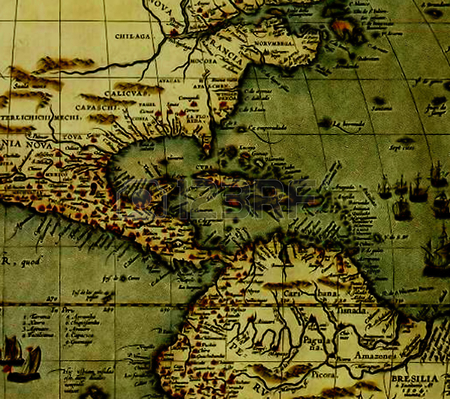
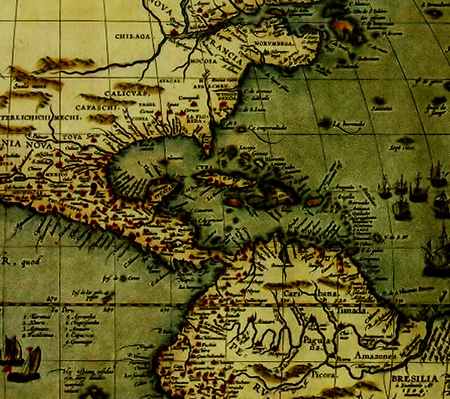
Updated README. Updated image with licensed version. Updated height and width properties accordintly.

Changed region(s): [[0.2489, 0.4511, 0.7467, 0.5714], [0.4978, 0.5414, 0.5289, 0.5714]]

diff --git a/assets/js/app.js b/assets/js/app.js
@@ -35,8 +35,8 @@ var getDistanceHint = function(distance) {
 	}
 };
 
-var width 	= 651;
-var height 	= 577;
+var width 	= 736;
+var height 	= 653;
 var clicks	= 0;
 
 // Create an object for random target location and store it in TARGET variable:
@@ -56,7 +56,10 @@ $("#map").click(function (event) {
 	// Update #distance hint in HTML:
 	$("#distance").text(distanceHint);
 	// If within 8px, alert player that they won:
-	if (distance <= 20) {
+	if ((distance <= 20) && (clicks === 1)) {
+		$("#distance").text("YOU MUST HAVE ESP!!! YOU FOUND THE TREASURE in only one click!!!");
+	}
+	else if ((distance <= 20) && (clicks < 1)) {
 		$("#distance").text("YOU'RE RICH!!! YOU FOUND THE TREASURE in " + clicks + " clicks!!!");
 	}
 });

diff --git a/index.html b/index.html
@@ -25,12 +25,13 @@
 		<div class="row">
 			
 			<!-- Map Column -->
-			<div class="col-md-6">
-				<img id="map" src="assets/img/map1300x1152.jpg">
+			<div class="col-md-7">
+				<img id="map" src="assets/img/map735x652.jpg">
+				<p id="copyright">Copyright: <a href='http://www.123rf.com/profile_artbyallyson'>artbyallyson / 123RF Stock Photo</a></p>
 			</div>
 			
 			<!-- Score Column -->
-			<div class="col-md-6">
+			<div class="col-md-5">
 				<p class="pirate-scrawl" id="distance"></p>
 			</div>
 		

diff --git a/assets/css/style.css b/assets/css/style.css
@@ -4,8 +4,8 @@
 
 #heading {
 	font-size: 45px;
-	/*color: #4a530d;*/
 	text-align: center;
+	padding: 20px;
 }
 
 .pirate-scrawl {
@@ -14,10 +14,15 @@
 }
 
 #map {
-	width: 650px;
-	height: 576px;
+	/*width: 650px;*/
+	/*height: 576px;*/
+}
+
+#copyright {
+	color: #c1b066;
 }
 
 #distance {
 	font-size: 28px;
+	padding: 20px;
 }

diff --git a/README.md b/README.md
@@ -1,1 +1,28 @@
-# pirate-treasure
+# Pirate Treasure
+
+GAME RULES:
+
+- Enter the number of points you wish to be the winning score. (If no points are entered, default winning score is 100.)
+- In each turn, a player rolls the dice as many times as they wish.  Each result gets added to their ROUND score.
+- The player can choose to 'Hold', which means that their ROUND score gets added to their GLOBAL score.  After that, it's the next player's turn.
+- BUT...
+  - If the player rolls a 1, their ROUND score is reset to zero and it's the next player's turn.
+  - If the player rolls two sixes, both their ROUND score and GLOBAL score are reset to zero and it's the next player's turn.
+- The first player to reach 100 points (or whatever you've set it to) in their GLOBAL score wins the game.
+
+NEW CODING SKILLS LEARNED:
+
+- Employing Pythagorean Theorem in JavaScript.
+- Using offset of click events.
+
+FUTURE ITERATIONS:
+
+- Add link to my portfolio.
+- Add link to my GitHub.
+- Add gameplay instructions to HTML.
+- Try using Math.pi instead of the Pythagorean Theorem to calculate distance between click and target.
+- Add a live X and Y coordinate display that changes as you hover over the image, telling you exactly where you are.
+- Add gameActive to disable click events once the game has been won.
+- Add a "Start New Game" button.
+- Add favicon.
+- Display click counter at all times.
